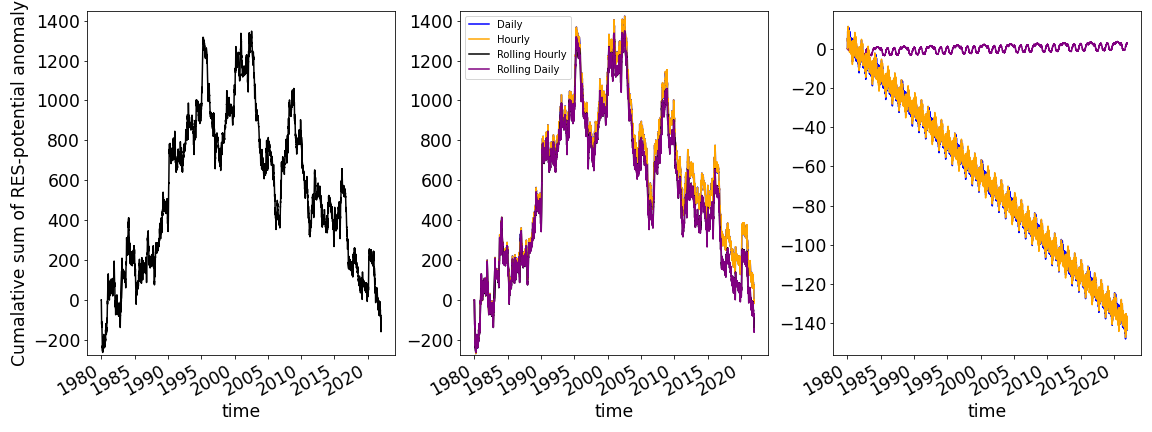
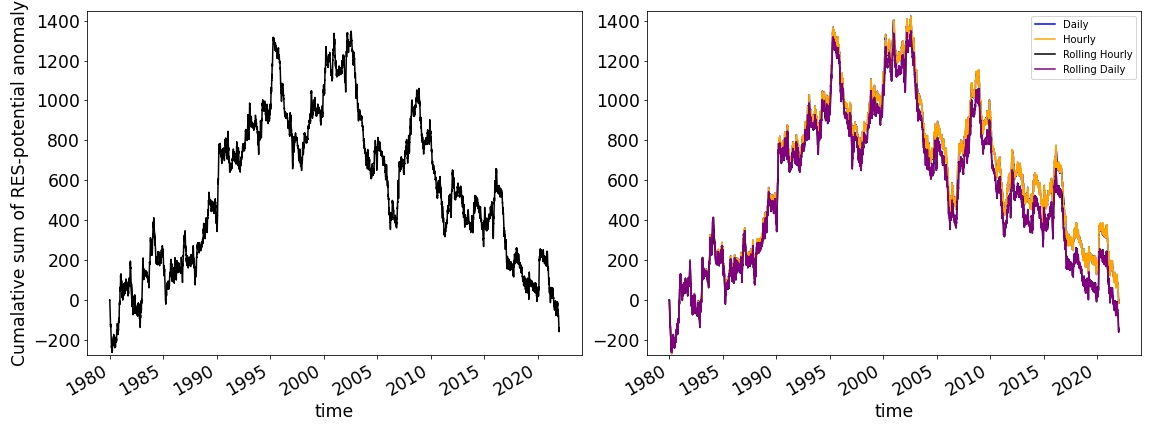
Second round of analysis

diff --git a/src/2_RESdeficit_WON_analysis.py b/src/2_RESdeficit_WON_analysis.py
@@ -93,11 +93,10 @@ ds_AnomdiffH = ds_AnomRolHourly.cumsum() - ds_AnomHourly.cumsum()
 
 
 # we start a new figure
-fig, axes = plt.subplots(nrows=1, ncols=3, figsize=(16,6))
+fig, axes = plt.subplots(nrows=1, ncols=2, figsize=(14,6))
 
 # first subplot is the climatology
 ds_AnomRolHourly.cumsum().plot(ax=axes[0], label='Rolling Hourly', color='black')
-# ds_AnomRolHourly.groupby(ds_AnomRolHourly.time.dt.year).cumsum().plot(ax=axes[0], label='Yearly Cumalative Sum', color='black')
 
 
 # second subplot is the difference in cumalative sum
@@ -105,10 +104,6 @@ ds_AnomDaily.cumsum().plot(ax=axes[1], label='Daily', color='blue')
 ds_AnomHourly.cumsum().plot(ax=axes[1], label= 'Hourly', color='orange')
 ds_AnomRolHourly.cumsum().plot(ax=axes[1], label='Rolling Hourly', color='black')
 ds_AnomRolDaily.cumsum().plot(ax=axes[1], label='Rolling Daily', color='purple')
-
-ds_AnomdiffD.plot(ax=axes[2], label='RolH - Daily', color='blue')
-ds_AnomdiffRD.plot(ax=axes[2], label='RolH - RolDaily', color='purple')
-ds_AnomdiffH.plot(ax=axes[2], label='RolH - Hourly', color='orange')
 
 # set the legend, labels & titles of the subplots
 axes[1].legend(fontsize='medium')
@@ -160,7 +155,7 @@ axes[0].fill_between(
 axes[0].plot(ds_AnomRolHourly.groupby(ds_AnomRolHourly.time.dt.year).cumsum().groupby('OrdinalHour').quantile(0.5, method='closest_observation'), color='dodgerblue', label='50%')
 
 #EXPERIMENTAL 
-axes[1].plot([ds_AnomRolHourly.OrdinalHour,ds_AnomRolHourly.groupby(ds_AnomRolHourly.time.dt.year).cumsum()])
+# axes[1].plot([ds_AnomRolHourly.OrdinalHour,ds_AnomRolHourly.groupby(ds_AnomRolHourly.time.dt.year).cumsum()])
 
 # set the legend, labels & titles of the subplots
 axes[0].legend(fontsize='medium')
